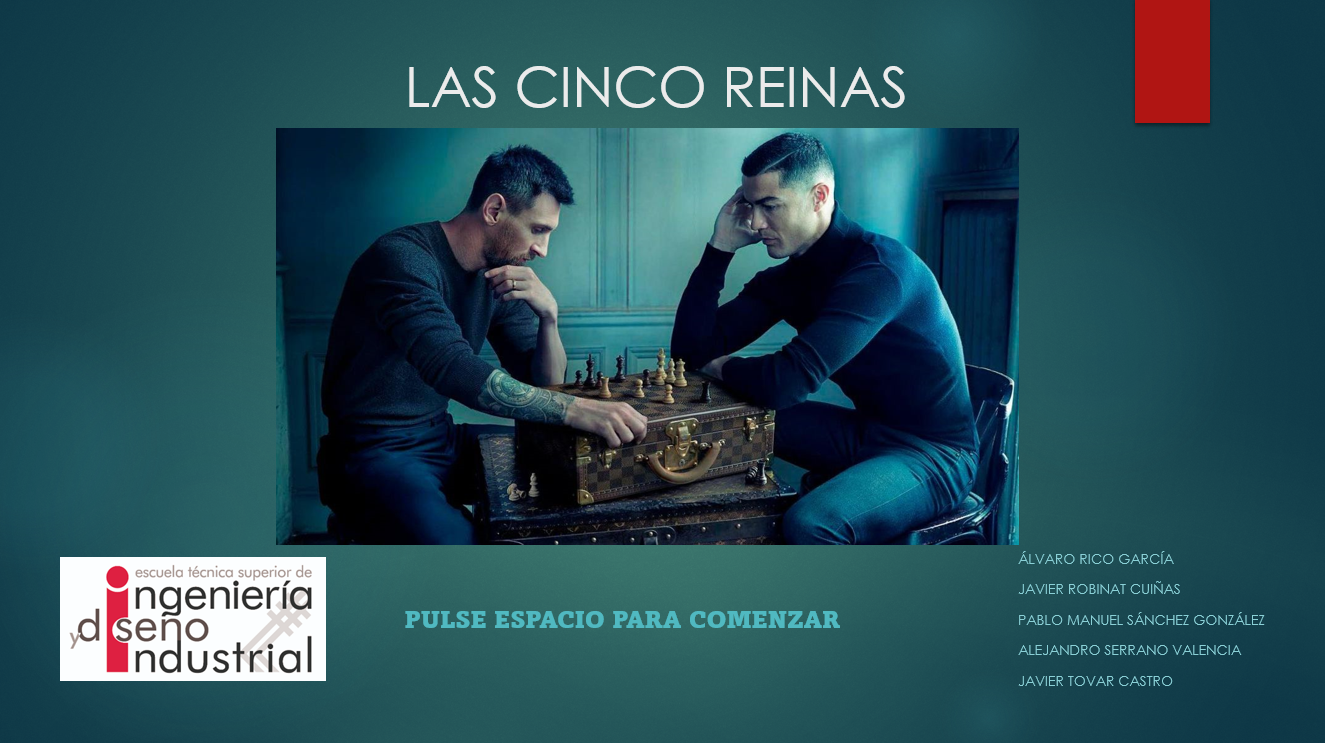
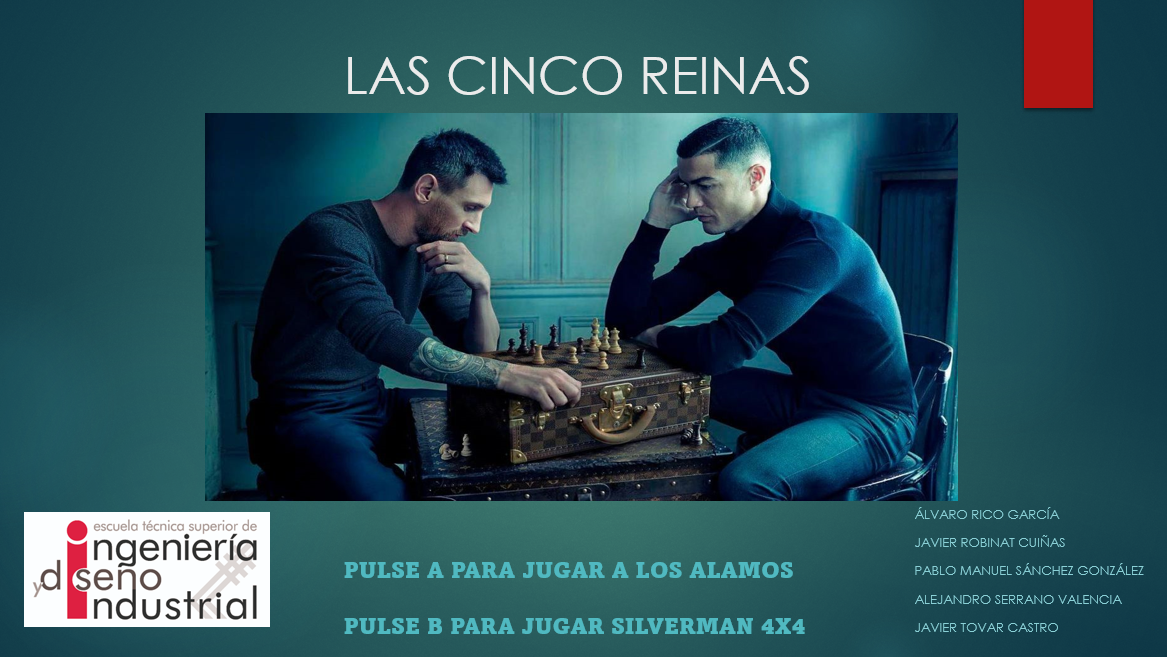
actualizacion menu principal y movimientos piezas para 4x4

diff --git a/src/Peon.cpp b/src/Peon.cpp
@@ -1,6 +1,7 @@
 #pragma once
 #include "Peon.h"
 #include "tablero.h"
+#include "tablero2.h"
 
 bool Peon::movimiento_valido(casilla inicio, casilla fin, Tablero& celda) {
 
@@ -42,4 +43,46 @@ bool Peon::movimiento_valido(casilla inicio, casilla fin, Tablero& celda) {
 		}
 
 		return false;
+}
+
+bool Peon::movimiento_valido(casilla inicio, casilla fin, Tablero2& celda) {
+
+	if (color == BLANCA)
+	{
+		if (inicio.fila == 1)
+		{
+			if ((casilla::mPeonBlanco(inicio, fin) == true && celda[fin] == nullptr) || ((casilla::mPeonDiagonalBlanco(inicio, fin) == true) && celda[fin] != nullptr && celda[fin]->getColor() != color))
+				return Pieza::movimiento_valido(inicio, fin, celda);
+
+		}
+
+		else if (inicio.fila != 1)
+		{
+			if ((casilla::mPeonBlanco(inicio, fin) == true) && celda[fin] == nullptr)
+				return Pieza::movimiento_valido(inicio, fin, celda);
+
+			else if ((casilla::mPeonDiagonalBlanco(inicio, fin) == true) && celda[fin] != nullptr)
+				return Pieza::movimiento_valido(inicio, fin, celda);
+		}
+	}
+
+	else if (color == NEGRA)
+	{
+		if (inicio.fila == 2)
+		{
+			if ((casilla::mPeonNegro(inicio, fin) == true && celda[fin] == nullptr) || ((casilla::mPeonDiagonalNegro(inicio, fin) == true) && celda[fin] != nullptr && celda[fin]->getColor() != color))
+				return Pieza::movimiento_valido(inicio, fin, celda);
+		}
+
+		else if (inicio.fila != 2)
+		{
+			if ((casilla::mPeonNegro(inicio, fin) == true) && celda[fin] == nullptr)
+				return Pieza::movimiento_valido(inicio, fin, celda);
+
+			else if ((casilla::mPeonDiagonalNegro(inicio, fin) == true) && celda[fin] != nullptr)
+				return Pieza::movimiento_valido(inicio, fin, celda);
+		}
+	}
+
+	return false;
 }

diff --git a/src/principal.cpp b/src/principal.cpp
@@ -2,9 +2,11 @@
 #include "ETSIDI.h"
 #include "inicio.h"
 #include "ajedrez.h"
+#include "ajedrez2.h"
 
 Inicio inicio;
 Ajedrez ajedrez;
+Ajedrez2 ajedrez2;
 int start = 0;
 
 //NO HACE FALTA LLAMARLAS EXPLICITAMENTE
@@ -56,6 +58,7 @@ void OnDraw(void)
 	
 	//funciones de dibujo
 	if (start == 1) ajedrez.dibuja(); //dibuja el tablero y las piezas
+	else if (start == 2) ajedrez2.dibuja();//4x4
 	else inicio.dibuja();
 
 	
@@ -69,15 +72,22 @@ void OnKeyboardDown(unsigned char key, int x_t, int y_t)
 	switch (key)
 	{
 		//START
-	case ' ':
+	case 'A':
 		if (start == 0)
 		{
 			start = 1;
 			stopMusica();
 		}
+	case 'B':
+		if (start == 0)
+		{
+			start = 2;
+			stopMusica();
+		}
 	default:
 		break;
 	}
+
 
 	glutPostRedisplay();
 }

diff --git a/src/Reina.cpp b/src/Reina.cpp
@@ -1,10 +1,22 @@
 #pragma once
 #include "Reina.h"
 #include "tablero.h"
+#include "tablero2.h"
 
 
  
 bool Reina::movimiento_valido(casilla inicio, casilla fin, Tablero& celda)
+{
+	if (casilla::mLineal(inicio, fin) == true)
+		return Pieza::movimiento_valido(inicio, fin, celda);
+
+	else if (casilla::mDiagonal(inicio, fin) == true)
+		return Pieza::movimiento_valido(inicio, fin, celda);
+
+	return false;
+}
+
+bool Reina::movimiento_valido(casilla inicio, casilla fin, Tablero2& celda)
 {
 	if (casilla::mLineal(inicio, fin) == true)
 		return Pieza::movimiento_valido(inicio, fin, celda);

diff --git a/src/Rey.cpp b/src/Rey.cpp
@@ -1,8 +1,17 @@
 #include "Rey.h"
 #include "Tablero.h"
+#include "tablero2.h"
 
 //Definicion de movimientos validos unitarios + la definicion comun de Pieza 
 bool Rey::movimiento_valido(casilla inicio, casilla fin, Tablero& celda)
+{
+	if (casilla::mRey(inicio, fin) == true)
+		return Pieza::movimiento_valido(inicio, fin, celda);
+
+	return false;
+}
+
+bool Rey::movimiento_valido(casilla inicio, casilla fin, Tablero2& celda)
 {
 	if (casilla::mRey(inicio, fin) == true)
 		return Pieza::movimiento_valido(inicio, fin, celda);

diff --git a/src/Torre.cpp b/src/Torre.cpp
@@ -1,9 +1,18 @@
 #pragma once
 #include "Torre.h"
 #include "tablero.h"
+#include "tablero2.h"
 
 
 bool Torre::movimiento_valido(casilla inicio, casilla fin, Tablero& celda)
+{
+	if (casilla::mLineal(inicio, fin) == true)
+		return Pieza::movimiento_valido(inicio, fin, celda);
+
+	return false;
+}
+
+bool Torre::movimiento_valido(casilla inicio, casilla fin, Tablero2& celda)
 {
 	if (casilla::mLineal(inicio, fin) == true)
 		return Pieza::movimiento_valido(inicio, fin, celda);

diff --git a/src/Peon.h b/src/Peon.h
@@ -1,10 +1,12 @@
 #pragma once
 #include "Pieza.h"
+
 class Peon : public Pieza
 {
 public:
 	Peon(COLOR color) :Pieza(color, PEON, "imagenes/PeonBlanco.png", "imagenes/PeonNegro.png") {}
-		virtual bool movimiento_valido(casilla inicio, casilla fin, Tablero & celda);
+	virtual bool movimiento_valido(casilla inicio, casilla fin, Tablero & celda);
+	virtual bool movimiento_valido(casilla inicio, casilla fin, Tablero2& celda);
 	
 };
 

diff --git a/src/Reina.h b/src/Reina.h
@@ -1,10 +1,13 @@
 #pragma once
 #include "Pieza.h"
+#include "tablero2.h"
+
 class Reina:public Pieza
 {
 public:
 	Reina(COLOR color) :Pieza(color, REINA, "imagenes/ReinaBlanca.png", "imagenes/ReinaNegra.png") {}
 	virtual bool movimiento_valido(casilla inicio, casilla fin, Tablero& celda);
+	virtual bool movimiento_valido(casilla inicio, casilla fin, Tablero2& celda);
 };
 
 

diff --git a/src/Torre.h b/src/Torre.h
@@ -1,9 +1,11 @@
 #pragma once
 #include "Pieza.h"
+
 class Torre:public Pieza
 {
 public:
 	Torre(COLOR color) :Pieza(color, TORRE, "imagenes/TorreBlanca.png", "imagenes/TorreNegra.png") {}
 	virtual bool movimiento_valido(casilla inicio, casilla fin, Tablero& celda);
+	virtual bool movimiento_valido(casilla inicio, casilla fin, Tablero2& celda);
 };
 

diff --git a/src/Rey.h b/src/Rey.h
@@ -5,5 +5,6 @@ class Rey:public Pieza
 public:
 	Rey(COLOR color) :Pieza(color, REY, "imagenes/ReyBlanco.png", "imagenes/ReyNegro.png") {}
 	virtual bool movimiento_valido(casilla inicio, casilla fin, Tablero& celda);
+	virtual bool movimiento_valido(casilla inicio, casilla fin, Tablero2& celda);
 };
 
